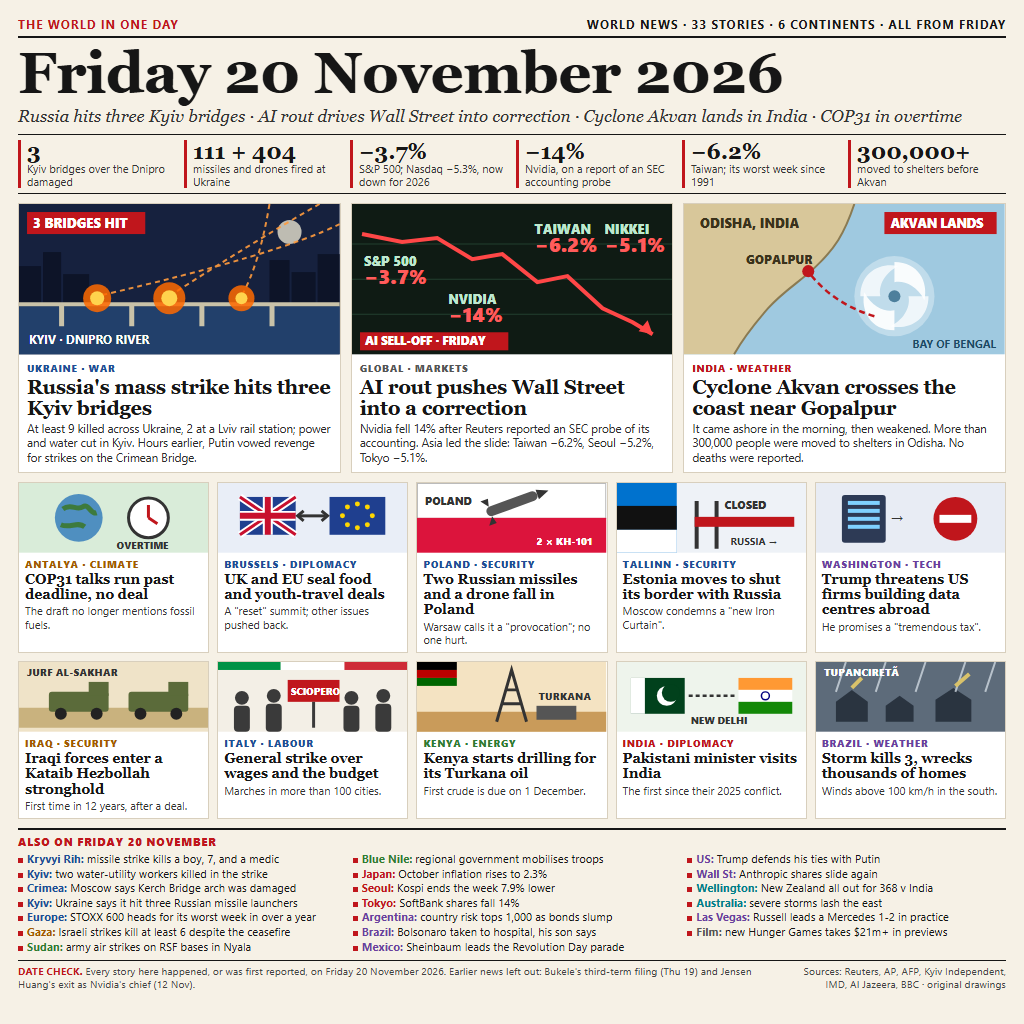
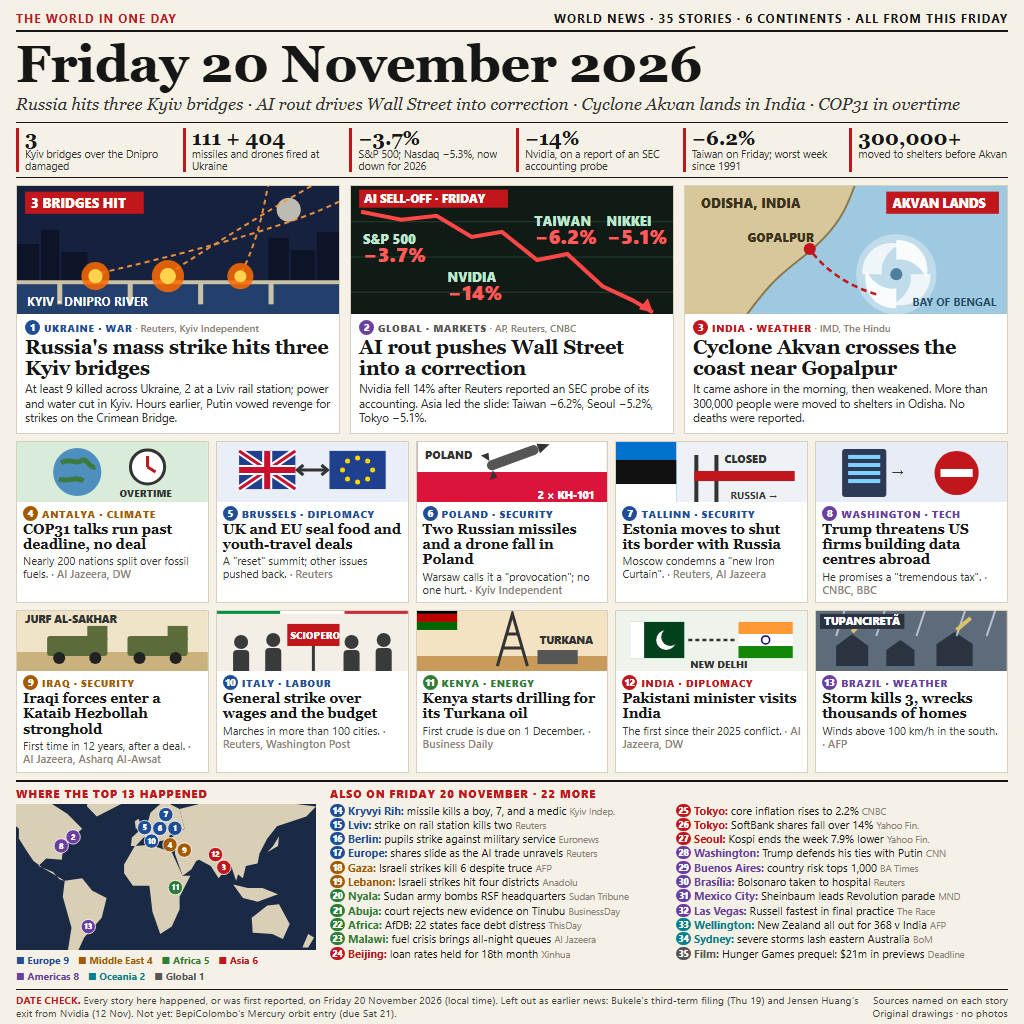
v2: 35 stories, locator map of the top 13, sources on every story, fixed clipped labels

diff --git a/src/page.html b/src/page.html
@@ -3,16 +3,16 @@
 <style>
 *{box-sizing:border-box;margin:0;padding:0}
 html,body{width:1024px;height:1024px;overflow:hidden}
-body{background:#f6f1e6;color:#161616;font-family:"Segoe UI",Arial,sans-serif;padding:16px 18px 10px}
+body{background:#f6f1e6;color:#161616;font-family:"Segoe UI",Arial,sans-serif;padding:10px 16px 6px}
 .serif{font-family:Georgia,"Times New Roman",serif}
 .top{display:flex;justify-content:space-between;align-items:center;font-size:12px;font-weight:700;letter-spacing:.08em;text-transform:uppercase;border-bottom:2px solid #161616;padding-bottom:4px}
 .top .red{color:#c0161c}
-h1{font-family:Georgia,serif;font-size:58px;line-height:1;font-weight:900;letter-spacing:-.01em;margin-top:6px}
+h1{font-family:Georgia,serif;font-size:52px;line-height:1;font-weight:900;letter-spacing:-.01em;margin-top:6px}
 .dek{font-family:Georgia,serif;font-style:italic;font-size:17px;margin-top:4px;color:#333}
 .nums{display:grid;grid-template-columns:repeat(6,1fr);gap:8px;margin-top:8px;border-top:1px solid #161616;border-bottom:1px solid #161616;padding:5px 0}
-.nums div{border-left:3px solid #c0161c;padding-left:6px;font-size:11px;line-height:1.15;color:#333}
-.nums b{display:block;font-family:Georgia,serif;font-size:22px;color:#161616;line-height:1.05}
-.lead{display:grid;grid-template-columns:1fr 1fr 1fr;gap:10px;margin-top:9px}
+.nums div{border-left:3px solid #c0161c;padding-left:6px;font-size:10.6px;line-height:1.1;color:#333}
+.nums b{display:block;font-family:Georgia,serif;font-size:20px;color:#161616;line-height:1.05}
+.lead{display:grid;grid-template-columns:1fr 1fr 1fr;gap:10px;margin-top:7px}
 .card{background:#fff;border:1px solid #d8cfbd;display:flex;flex-direction:column}
 .card svg rect.fl{stroke:#999;stroke-width:1}
 .card svg{display:block;width:100%}
@@ -20,23 +20,28 @@ h1{font-family:Georgia,serif;font-size:58px;line-height:1;font-weight:900;letter
 .kick{font-size:10px;font-weight:800;letter-spacing:.07em;text-transform:uppercase}
 .lead h2{font-family:Georgia,serif;font-size:19.5px;line-height:1.08;margin-top:2px}
 .lead p{font-size:11.5px;line-height:1.25;margin-top:3px;color:#2c2c2c}
-.grid{display:grid;grid-template-columns:repeat(5,1fr);gap:8px;margin-top:9px}
+.grid{display:grid;grid-template-columns:repeat(5,1fr);gap:7px;margin-top:7px}
 .grid .txt{padding:4px 6px 6px}
 .grid h3{font-family:Georgia,serif;font-size:14px;line-height:1.1;margin-top:1px}
 .grid p{font-size:11px;line-height:1.2;color:#333;margin-top:2px}
-.also{margin-top:9px;border-top:2px solid #161616;padding-top:4px}
-.also .hd{font-size:11px;font-weight:800;letter-spacing:.08em;text-transform:uppercase;color:#c0161c}
-.also ul{list-style:none;columns:3;column-gap:16px;margin-top:3px}
-.also li{font-size:11.2px;line-height:1.3;break-inside:avoid;padding-left:9px;position:relative}
-.also li:before{content:"";position:absolute;left:0;top:6px;width:5px;height:5px;background:#c0161c}
-.also li b{font-weight:700}
 .foot{display:flex;justify-content:space-between;gap:12px;margin-top:6px;border-top:1px solid #161616;padding-top:4px;font-size:10.4px;color:#444;line-height:1.25}
 .foot .chk{flex:1}
 .foot .chk b{color:#c0161c}
 .eu{color:#1f4e96}.as{color:#c0161c}.am{color:#6b3fa0}.af{color:#2f7d32}.me{color:#a35a00}.gl{color:#555}.oc{color:#00808a}
+.bot{display:grid;grid-template-columns:300px 1fr;gap:14px;margin-top:7px;border-top:2px solid #161616;padding-top:4px}
+.hd{font-size:11px;font-weight:800;letter-spacing:.08em;text-transform:uppercase;color:#c0161c;margin-bottom:3px}
+#map{width:300px;display:block}
+.leg{display:flex;flex-wrap:wrap;gap:2px 9px;font-size:10px;font-weight:700;margin-top:3px}
+.also ol{list-style:none;columns:2;column-gap:14px}
+.also li{font-size:11px;line-height:1.3;break-inside:avoid;white-space:nowrap;overflow:hidden;text-overflow:ellipsis}
+.also li i{display:inline-block;width:15px;height:13px;border-radius:7px;color:#fff;font-style:normal;font-size:8.5px;font-weight:800;text-align:center;line-height:13px;margin-right:3px;vertical-align:1px}
+.also li .s{color:#8a8172;font-size:9.5px}
+.num{display:inline-block;min-width:15px;height:15px;border-radius:8px;color:#fff;font-size:9.5px;font-weight:800;text-align:center;line-height:15px;margin-right:4px;vertical-align:1px;font-style:normal;letter-spacing:0}
+.srcl{color:#8a8172;font-weight:600;letter-spacing:0;text-transform:none}
+.foot .src{text-align:right;white-space:nowrap}
 </style></head>
 <body>
-<div class="top"><span class="red">The world in one day</span><span>World news · 33 stories · 6 continents · all from Friday</span></div>
+<div class="top"><span class="red">The world in one day</span><span>World news · 39 stories · 6 continents · all from this Friday</span></div>
 <h1>Friday 20 November 2026</h1>
 <div class="dek">Russia hits three Kyiv bridges · AI rout drives Wall Street into correction · Cyclone Akvan lands in India · COP31 in overtime</div>
 
@@ -45,14 +50,14 @@ h1{font-family:Georgia,serif;font-size:58px;line-height:1;font-weight:900;letter
   <div><b>111 + 404</b>missiles and drones fired at Ukraine</div>
   <div><b>−3.7%</b>S&amp;P 500; Nasdaq −5.3%, now down for 2026</div>
   <div><b>−14%</b>Nvidia, on a report of an SEC accounting probe</div>
-  <div><b>−6.2%</b>Taiwan; its worst week since 1991</div>
+  <div><b>−6.2%</b>Taiwan on Friday; worst week since 1991</div>
   <div><b>300,000+</b>moved to shelters before Akvan</div>
 </div>
 
 <div class="lead">
   <!-- 1 KYIV -->
   <div class="card">
-    <svg viewBox="0 0 320 150" xmlns="http://www.w3.org/2000/svg">
+    <svg viewBox="0 0 320 136" preserveAspectRatio="xMidYMid slice" style="height:128px" xmlns="http://www.w3.org/2000/svg">
       <rect width="320" height="150" fill="#16213e"/>
       <circle cx="270" cy="28" r="12" fill="#e8e4d0" opacity=".8"/>
       <g fill="#0d1428"><rect x="0" y="62" width="22" height="40"/><rect x="24" y="48" width="18" height="54"/><rect x="44" y="70" width="26" height="32"/><rect x="250" y="56" width="20" height="46"/><rect x="272" y="68" width="24" height="34"/><rect x="298" y="50" width="22" height="52"/></g>
@@ -61,14 +66,14 @@ h1{font-family:Georgia,serif;font-size:58px;line-height:1;font-weight:900;letter
       <g fill="#c9c2a8"><rect x="40" y="100" width="5" height="22"/><rect x="110" y="100" width="5" height="22"/><rect x="180" y="100" width="5" height="22"/><rect x="250" y="100" width="5" height="22"/></g>
       <g stroke="#ff9b3d" stroke-width="2" stroke-dasharray="5 4" fill="none" opacity=".9"><path d="M300 0 Q230 40 150 92"/><path d="M320 20 Q260 50 78 92"/><path d="M250 0 Q240 60 222 92"/></g>
       <g><circle cx="78" cy="94" r="14" fill="#ff6a00" opacity=".85"/><circle cx="78" cy="94" r="7" fill="#ffd34d"/><circle cx="150" cy="94" r="16" fill="#ff6a00" opacity=".85"/><circle cx="150" cy="94" r="8" fill="#ffd34d"/><circle cx="222" cy="94" r="13" fill="#ff6a00" opacity=".85"/><circle cx="222" cy="94" r="6" fill="#ffd34d"/></g>
-      <rect x="8" y="8" width="118" height="22" fill="#c0161c"/><text x="14" y="24" font-family="Segoe UI,Arial" font-weight="800" font-size="13" fill="#fff">3 BRIDGES HIT</text>
-      <text x="10" y="140" font-family="Segoe UI,Arial" font-weight="700" font-size="12" fill="#fff">KYIV · DNIPRO RIVER</text>
+      <rect x="8" y="10" width="118" height="22" fill="#c0161c"/><text x="14" y="26" font-family="Segoe UI,Arial" font-weight="800" font-size="13" fill="#fff">3 BRIDGES HIT</text>
+      <text x="10" y="124" font-family="Segoe UI,Arial" font-weight="700" font-size="12" fill="#fff">KYIV · DNIPRO RIVER</text>
     </svg>
     <div class="txt"><div class="kick eu">Ukraine · War</div><h2>Russia's mass strike hits three Kyiv bridges</h2><p>At least 9 killed across Ukraine, 2 at a Lviv rail station; power and water cut in Kyiv. Hours earlier, Putin vowed revenge for strikes on the Crimean Bridge.</p></div>
   </div>
   <!-- 2 MARKETS -->
   <div class="card">
-    <svg viewBox="0 0 320 150" xmlns="http://www.w3.org/2000/svg">
+    <svg viewBox="0 0 320 136" preserveAspectRatio="xMidYMid slice" style="height:128px" xmlns="http://www.w3.org/2000/svg">
       <rect width="320" height="150" fill="#0f1b14"/>
       <g stroke="#23402f" stroke-width="1"><path d="M0 40H320M0 75H320M0 110H320"/></g>
       <polyline points="10,30 50,38 85,34 120,55 150,50 185,78 215,72 250,104 280,118 300,130" fill="none" stroke="#ff4747" stroke-width="4"/>
@@ -76,16 +81,16 @@ h1{font-family:Georgia,serif;font-size:58px;line-height:1;font-weight:900;letter
       <g font-family="Segoe UI,Arial" font-weight="800">
         <text x="12" y="62" font-size="13" fill="#bfe8cf">S&amp;P 500</text><text x="12" y="80" font-size="20" fill="#ff5c5c">−3.7%</text>
         <text x="96" y="100" font-size="13" fill="#bfe8cf">NVIDIA</text><text x="96" y="118" font-size="20" fill="#ff5c5c">−14%</text>
-        <text x="182" y="30" font-size="13" fill="#bfe8cf">TAIWAN</text><text x="182" y="48" font-size="20" fill="#ff5c5c">−6.2%</text>
-        <text x="252" y="30" font-size="13" fill="#bfe8cf">NIKKEI</text><text x="252" y="48" font-size="20" fill="#ff5c5c">−5.1%</text>
+        <text x="182" y="44" font-size="13" fill="#bfe8cf">TAIWAN</text><text x="182" y="62" font-size="20" fill="#ff5c5c">−6.2%</text>
+        <text x="254" y="44" font-size="13" fill="#bfe8cf">NIKKEI</text><text x="254" y="62" font-size="20" fill="#ff5c5c">−5.1%</text>
       </g>
-      <rect x="8" y="128" width="148" height="18" fill="#c0161c"/><text x="13" y="141" font-family="Segoe UI,Arial" font-weight="800" font-size="11.5" fill="#fff">AI SELL-OFF · FRIDAY</text>
+      <rect x="8" y="8" width="148" height="18" fill="#c0161c"/><text x="13" y="21" font-family="Segoe UI,Arial" font-weight="800" font-size="11.5" fill="#fff">AI SELL-OFF · FRIDAY</text>
     </svg>
     <div class="txt"><div class="kick gl">Global · Markets</div><h2>AI rout pushes Wall Street into a correction</h2><p>Nvidia fell 14% after Reuters reported an SEC probe of its accounting. Asia led the slide: Taiwan −6.2%, Seoul −5.2%, Tokyo −5.1%.</p></div>
   </div>
   <!-- 3 CYCLONE -->
   <div class="card">
-    <svg viewBox="0 0 320 150" xmlns="http://www.w3.org/2000/svg">
+    <svg viewBox="0 0 320 136" preserveAspectRatio="xMidYMid slice" style="height:128px" xmlns="http://www.w3.org/2000/svg">
       <rect width="320" height="150" fill="#9fc9e0"/>
       <path d="M0 0 H170 C160 30 150 45 132 62 C118 76 100 86 84 104 C70 120 58 136 50 150 H0 Z" fill="#d8c79a"/>
       <path d="M170 0 C160 30 150 45 132 62 C118 76 100 86 84 104 C70 120 58 136 50 150" fill="none" stroke="#8a7a52" stroke-width="2"/>
@@ -100,66 +105,110 @@ h1{font-family:Georgia,serif;font-size:58px;line-height:1;font-weight:900;letter
       <path d="M190 112 Q150 100 126 70" fill="none" stroke="#c0161c" stroke-width="2.5" stroke-dasharray="6 4"/>
       <circle cx="124" cy="67" r="6" fill="#c0161c"/>
       <text x="62" y="60" font-family="Segoe UI,Arial" font-weight="800" font-size="12" fill="#3b321c">GOPALPUR</text>
-      <text x="16" y="24" font-family="Segoe UI,Arial" font-weight="800" font-size="13" fill="#3b321c">ODISHA, INDIA</text>
-      <text x="228" y="144" font-family="Segoe UI,Arial" font-weight="700" font-size="11" fill="#1d4a66">BAY OF BENGAL</text>
-      <rect x="200" y="8" width="112" height="22" fill="#c0161c"/><text x="206" y="24" font-family="Segoe UI,Arial" font-weight="800" font-size="12.5" fill="#fff">AKVAN LANDS</text>
+      <text x="16" y="26" font-family="Segoe UI,Arial" font-weight="800" font-size="13" fill="#3b321c">ODISHA, INDIA</text>
+      <text x="226" y="124" font-family="Segoe UI,Arial" font-weight="700" font-size="11" fill="#1d4a66">BAY OF BENGAL</text>
+      <rect x="200" y="10" width="112" height="22" fill="#c0161c"/><text x="206" y="26" font-family="Segoe UI,Arial" font-weight="800" font-size="12.5" fill="#fff">AKVAN LANDS</text>
     </svg>
     <div class="txt"><div class="kick as">India · Weather</div><h2>Cyclone Akvan crosses the coast near Gopalpur</h2><p>It came ashore in the morning, then weakened. More than 300,000 people were moved to shelters in Odisha. No deaths were reported.</p></div>
   </div>
 </div>
 
 <div class="grid">
-  <div class="card"><svg viewBox="0 0 190 70"><rect width="190" height="70" fill="#d9ecd9"/><circle cx="60" cy="35" r="24" fill="#4f8fc0"/><path d="M44 26c8-6 14 2 20-2s8 8 14 6M42 42c10 4 16-4 24 2" stroke="#3d7a3d" stroke-width="5" fill="none"/><circle cx="130" cy="35" r="20" fill="#fff" stroke="#333" stroke-width="3"/><path d="M130 35V22M130 35l9 6" stroke="#c0161c" stroke-width="3"/><text x="98" y="66" font-family="Segoe UI" font-weight="800" font-size="10" fill="#333">OVERTIME</text></svg>
-    <div class="txt"><div class="kick me">Antalya · Climate</div><h3>COP31 talks run past deadline, no deal</h3><p>The draft no longer mentions fossil fuels.</p></div></div>
-  <div class="card"><svg viewBox="0 0 190 70"><rect width="190" height="70" fill="#e9eef7"/><g transform="translate(22,14)"><rect width="56" height="38" fill="#1f3f8f"/><path d="M0 0L56 38M56 0L0 38" stroke="#fff" stroke-width="7"/><path d="M0 0L56 38M56 0L0 38" stroke="#c8102e" stroke-width="3"/><path d="M28 0V38M0 19H56" stroke="#fff" stroke-width="10"/><path d="M28 0V38M0 19H56" stroke="#c8102e" stroke-width="6"/></g><g transform="translate(112,14)"><rect width="56" height="38" fill="#1f3f8f"/><g fill="#ffd700"><circle cx="28" cy="7" r="2.5"/><circle cx="38" cy="10" r="2.5"/><circle cx="43" cy="19" r="2.5"/><circle cx="38" cy="28" r="2.5"/><circle cx="28" cy="31" r="2.5"/><circle cx="18" cy="28" r="2.5"/><circle cx="13" cy="19" r="2.5"/><circle cx="18" cy="10" r="2.5"/></g></g><path d="M82 33h26" stroke="#333" stroke-width="3"/><path d="M104 28l6 5-6 5M86 28l-6 5 6 5" fill="none" stroke="#333" stroke-width="3"/></svg>
+  <div class="card"><svg viewBox="0 0 190 70" preserveAspectRatio="xMidYMid slice" style="height:60px"><rect width="190" height="70" fill="#d9ecd9"/><circle cx="60" cy="35" r="24" fill="#4f8fc0"/><path d="M44 26c8-6 14 2 20-2s8 8 14 6M42 42c10 4 16-4 24 2" stroke="#3d7a3d" stroke-width="5" fill="none"/><circle cx="130" cy="30" r="17" fill="#fff" stroke="#333" stroke-width="3"/><path d="M130 30V19M130 30l8 5" stroke="#c0161c" stroke-width="3"/><text x="102" y="60" font-family="Segoe UI" font-weight="800" font-size="10" fill="#333">OVERTIME</text></svg>
+    <div class="txt"><div class="kick me">Antalya · Climate</div><h3>COP31 talks run past deadline, no deal</h3><p>Nearly 200 nations split over fossil fuels.</p></div></div>
+  <div class="card"><svg viewBox="0 0 190 70" preserveAspectRatio="xMidYMid slice" style="height:60px"><rect width="190" height="70" fill="#e9eef7"/><g transform="translate(22,14)"><rect width="56" height="38" fill="#1f3f8f"/><path d="M0 0L56 38M56 0L0 38" stroke="#fff" stroke-width="7"/><path d="M0 0L56 38M56 0L0 38" stroke="#c8102e" stroke-width="3"/><path d="M28 0V38M0 19H56" stroke="#fff" stroke-width="10"/><path d="M28 0V38M0 19H56" stroke="#c8102e" stroke-width="6"/></g><g transform="translate(112,14)"><rect width="56" height="38" fill="#1f3f8f"/><g fill="#ffd700"><circle cx="28" cy="7" r="2.5"/><circle cx="38" cy="10" r="2.5"/><circle cx="43" cy="19" r="2.5"/><circle cx="38" cy="28" r="2.5"/><circle cx="28" cy="31" r="2.5"/><circle cx="18" cy="28" r="2.5"/><circle cx="13" cy="19" r="2.5"/><circle cx="18" cy="10" r="2.5"/></g></g><path d="M82 33h26" stroke="#333" stroke-width="3"/><path d="M104 28l6 5-6 5M86 28l-6 5 6 5" fill="none" stroke="#333" stroke-width="3"/></svg>
     <div class="txt"><div class="kick eu">Brussels · Diplomacy</div><h3>UK and EU seal food and youth-travel deals</h3><p>A "reset" summit; other issues pushed back.</p></div></div>
-  <div class="card"><svg viewBox="0 0 190 70"><rect width="190" height="70" fill="#fff"/><rect x="0.5" y="0.5" width="189" height="35" fill="#fff" stroke="#bbb"/><rect y="35" width="190" height="35" fill="#dc143c"/><g transform="translate(70,30) rotate(-20)"><rect x="0" y="-5" width="54" height="10" rx="5" fill="#555"/><path d="M54 -5l12 5-12 5z" fill="#333"/><path d="M4 -5l-6 -8h8zM4 5l-6 8h8z" fill="#333"/></g><text x="8" y="22" font-family="Segoe UI" font-weight="800" font-size="11" fill="#333">POLAND</text><text x="120" y="62" font-family="Segoe UI" font-weight="800" font-size="10.5" fill="#fff">2 × KH-101</text></svg>
+  <div class="card"><svg viewBox="0 0 190 70" preserveAspectRatio="xMidYMid slice" style="height:60px"><rect width="190" height="70" fill="#fff"/><rect x="0.5" y="0.5" width="189" height="35" fill="#fff" stroke="#bbb"/><rect y="35" width="190" height="35" fill="#dc143c"/><g transform="translate(70,30) rotate(-20)"><rect x="0" y="-5" width="54" height="10" rx="5" fill="#555"/><path d="M54 -5l12 5-12 5z" fill="#333"/><path d="M4 -5l-6 -8h8zM4 5l-6 8h8z" fill="#333"/></g><text x="8" y="22" font-family="Segoe UI" font-weight="800" font-size="11" fill="#333">POLAND</text><text x="120" y="62" font-family="Segoe UI" font-weight="800" font-size="10.5" fill="#fff">2 × KH-101</text></svg>
     <div class="txt"><div class="kick eu">Poland · Security</div><h3>Two Russian missiles and a drone fall in Poland</h3><p>Warsaw calls it a "provocation"; no one hurt.</p></div></div>
-  <div class="card"><svg viewBox="0 0 190 70"><rect width="190" height="70" fill="#eef2f7"/><rect x="0" y="0" width="60" height="70" fill="#0072ce"/><rect x="0" y="23" width="60" height="24" fill="#111"/><rect x="0" y="47" width="60" height="23" fill="#fff"/><g stroke="#333" stroke-width="4"><path d="M80 18V66M100 18V66"/></g><rect x="78" y="34" width="100" height="10" fill="#c0161c"/><rect x="78" y="34" width="100" height="10" fill="url(#s)"/><text x="108" y="26" font-family="Segoe UI" font-weight="800" font-size="11" fill="#333">CLOSED</text><text x="114" y="62" font-family="Segoe UI" font-weight="700" font-size="10" fill="#333">RUSSIA →</text></svg>
+  <div class="card"><svg viewBox="0 0 190 70" preserveAspectRatio="xMidYMid slice" style="height:60px"><rect width="190" height="70" fill="#eef2f7"/><rect x="0" y="0" width="60" height="70" fill="#0072ce"/><rect x="0" y="23" width="60" height="24" fill="#111"/><rect x="0" y="47" width="60" height="23" fill="#fff"/><g stroke="#333" stroke-width="4"><path d="M80 18V66M100 18V66"/></g><rect x="78" y="34" width="100" height="10" fill="#c0161c"/><rect x="78" y="34" width="100" height="10" fill="url(#s)"/><text x="108" y="26" font-family="Segoe UI" font-weight="800" font-size="11" fill="#333">CLOSED</text><text x="114" y="62" font-family="Segoe UI" font-weight="700" font-size="10" fill="#333">RUSSIA →</text></svg>
     <div class="txt"><div class="kick eu">Tallinn · Security</div><h3>Estonia moves to shut its border with Russia</h3><p>Moscow condemns a "new Iron Curtain".</p></div></div>
-  <div class="card"><svg viewBox="0 0 190 70"><rect width="190" height="70" fill="#e8ecf4"/><g transform="translate(26,12)"><rect width="44" height="48" rx="3" fill="#2d3a55"/><g fill="#7fd1ff"><rect x="6" y="6" width="32" height="4"/><rect x="6" y="14" width="32" height="4"/><rect x="6" y="22" width="32" height="4"/><rect x="6" y="30" width="32" height="4"/></g></g><g transform="translate(118,12)"><circle cx="22" cy="24" r="22" fill="#c0161c"/><rect x="6" y="20" width="32" height="8" fill="#fff"/></g><text x="74" y="40" font-family="Segoe UI" font-weight="800" font-size="16" fill="#333">→</text></svg>
+  <div class="card"><svg viewBox="0 0 190 70" preserveAspectRatio="xMidYMid slice" style="height:60px"><rect width="190" height="70" fill="#e8ecf4"/><g transform="translate(26,12)"><rect width="44" height="48" rx="3" fill="#2d3a55"/><g fill="#7fd1ff"><rect x="6" y="6" width="32" height="4"/><rect x="6" y="14" width="32" height="4"/><rect x="6" y="22" width="32" height="4"/><rect x="6" y="30" width="32" height="4"/></g></g><g transform="translate(118,12)"><circle cx="22" cy="24" r="22" fill="#c0161c"/><rect x="6" y="20" width="32" height="8" fill="#fff"/></g><text x="74" y="40" font-family="Segoe UI" font-weight="800" font-size="16" fill="#333">→</text></svg>
     <div class="txt"><div class="kick am">Washington · Tech</div><h3>Trump threatens US firms building data centres abroad</h3><p>He promises a "tremendous tax".</p></div></div>
 
-  <div class="card"><svg viewBox="0 0 190 70"><rect width="190" height="70" fill="#efe3c8"/><path d="M0 56H190" stroke="#c9b27e" stroke-width="20"/><g transform="translate(30,30)"><rect width="60" height="20" rx="3" fill="#5b6b3a"/><rect x="40" y="-10" width="20" height="14" fill="#5b6b3a"/><circle cx="12" cy="22" r="6" fill="#222"/><circle cx="48" cy="22" r="6" fill="#222"/></g><g transform="translate(110,30)"><rect width="60" height="20" rx="3" fill="#5b6b3a"/><rect x="40" y="-10" width="20" height="14" fill="#5b6b3a"/><circle cx="12" cy="22" r="6" fill="#222"/><circle cx="48" cy="22" r="6" fill="#222"/></g><text x="8" y="14" font-family="Segoe UI" font-weight="800" font-size="10.5" fill="#333">JURF AL-SAKHAR</text></svg>
+  <div class="card"><svg viewBox="0 0 190 70" preserveAspectRatio="xMidYMid slice" style="height:60px"><rect width="190" height="70" fill="#efe3c8"/><path d="M0 56H190" stroke="#c9b27e" stroke-width="20"/><g transform="translate(30,30)"><rect width="60" height="20" rx="3" fill="#5b6b3a"/><rect x="40" y="-10" width="20" height="14" fill="#5b6b3a"/><circle cx="12" cy="22" r="6" fill="#222"/><circle cx="48" cy="22" r="6" fill="#222"/></g><g transform="translate(110,30)"><rect width="60" height="20" rx="3" fill="#5b6b3a"/><rect x="40" y="-10" width="20" height="14" fill="#5b6b3a"/><circle cx="12" cy="22" r="6" fill="#222"/><circle cx="48" cy="22" r="6" fill="#222"/></g><text x="8" y="17" font-family="Segoe UI" font-weight="800" font-size="10.5" fill="#333">JURF AL-SAKHAR</text></svg>
     <div class="txt"><div class="kick me">Iraq · Security</div><h3>Iraqi forces enter a Kataib Hezbollah stronghold</h3><p>First time in 12 years, after a deal.</p></div></div>
-  <div class="card"><svg viewBox="0 0 190 70"><rect width="190" height="70" fill="#f3efe6"/><rect x="0" y="0" width="63" height="8" fill="#009246"/><rect x="63" y="0" width="64" height="8" fill="#fff"/><rect x="127" y="0" width="63" height="8" fill="#ce2b37"/><g fill="#3a3a3a"><circle cx="24" cy="36" r="7"/><rect x="16" y="44" width="16" height="26" rx="4"/><circle cx="56" cy="34" r="7"/><rect x="48" y="42" width="16" height="28" rx="4"/><circle cx="134" cy="36" r="7"/><rect x="126" y="44" width="16" height="26" rx="4"/><circle cx="166" cy="34" r="7"/><rect x="158" y="42" width="16" height="28" rx="4"/></g><rect x="70" y="18" width="52" height="22" fill="#c0161c"/><path d="M96 40V66" stroke="#3a3a3a" stroke-width="3"/><text x="73" y="33" font-family="Segoe UI" font-weight="800" font-size="10" fill="#fff">SCIOPERO</text></svg>
+  <div class="card"><svg viewBox="0 0 190 70" preserveAspectRatio="xMidYMid slice" style="height:60px"><rect width="190" height="70" fill="#f3efe6"/><rect x="0" y="0" width="63" height="8" fill="#009246"/><rect x="63" y="0" width="64" height="8" fill="#fff"/><rect x="127" y="0" width="63" height="8" fill="#ce2b37"/><g fill="#3a3a3a"><circle cx="24" cy="36" r="7"/><rect x="16" y="44" width="16" height="26" rx="4"/><circle cx="56" cy="34" r="7"/><rect x="48" y="42" width="16" height="28" rx="4"/><circle cx="134" cy="36" r="7"/><rect x="126" y="44" width="16" height="26" rx="4"/><circle cx="166" cy="34" r="7"/><rect x="158" y="42" width="16" height="28" rx="4"/></g><rect x="70" y="18" width="52" height="22" fill="#c0161c"/><path d="M96 40V66" stroke="#3a3a3a" stroke-width="3"/><text x="73" y="33" font-family="Segoe UI" font-weight="800" font-size="10" fill="#fff">SCIOPERO</text></svg>
     <div class="txt"><div class="kick eu">Italy · Labour</div><h3>General strike over wages and the budget</h3><p>Marches in more than 100 cities.</p></div></div>
-  <div class="card"><svg viewBox="0 0 190 70"><rect width="190" height="70" fill="#f4e3c2"/><path d="M0 60H190" stroke="#c99b5a" stroke-width="20"/><g stroke="#333" stroke-width="3" fill="none"><path d="M80 60L95 8L110 60M85 42H105M89 28H101"/></g><rect x="120" y="44" width="40" height="14" fill="#555"/><rect x="0" y="0" width="40" height="8" fill="#000"/><rect x="0" y="8" width="40" height="8" fill="#bb0000"/><rect x="0" y="16" width="40" height="8" fill="#006600"/><text x="122" y="38" font-family="Segoe UI" font-weight="800" font-size="10.5" fill="#333">TURKANA</text></svg>
+  <div class="card"><svg viewBox="0 0 190 70" preserveAspectRatio="xMidYMid slice" style="height:60px"><rect width="190" height="70" fill="#f4e3c2"/><path d="M0 60H190" stroke="#c99b5a" stroke-width="20"/><g stroke="#333" stroke-width="3" fill="none"><path d="M80 60L95 8L110 60M85 42H105M89 28H101"/></g><rect x="120" y="44" width="40" height="14" fill="#555"/><rect x="0" y="0" width="40" height="8" fill="#000"/><rect x="0" y="8" width="40" height="8" fill="#bb0000"/><rect x="0" y="16" width="40" height="8" fill="#006600"/><text x="122" y="38" font-family="Segoe UI" font-weight="800" font-size="10.5" fill="#333">TURKANA</text></svg>
     <div class="txt"><div class="kick af">Kenya · Energy</div><h3>Kenya starts drilling for its Turkana oil</h3><p>First crude is due on 1 December.</p></div></div>
-  <div class="card"><svg viewBox="0 0 190 70"><rect width="190" height="70" fill="#eef4ec"/><g transform="translate(14,16)"><rect width="54" height="36" fill="#01411c"/><rect width="14" height="36" fill="#fff"/><circle cx="36" cy="18" r="10" fill="#fff"/><circle cx="40" cy="15" r="9" fill="#01411c"/></g><g transform="translate(122,16)"><rect width="54" height="12" fill="#ff9933"/><rect y="12" width="54" height="12" fill="#fff"/><rect y="24" width="54" height="12" fill="#138808"/><circle cx="27" cy="18" r="4" fill="none" stroke="#000080" stroke-width="1.5"/></g><path d="M72 34H118" stroke="#333" stroke-width="2.5" stroke-dasharray="4 3"/><text x="74" y="62" font-family="Segoe UI" font-weight="800" font-size="10" fill="#333">NEW DELHI</text></svg>
+  <div class="card"><svg viewBox="0 0 190 70" preserveAspectRatio="xMidYMid slice" style="height:60px"><rect width="190" height="70" fill="#eef4ec"/><g transform="translate(14,16)"><rect width="54" height="36" fill="#01411c"/><rect width="14" height="36" fill="#fff"/><circle cx="36" cy="18" r="10" fill="#fff"/><circle cx="40" cy="15" r="9" fill="#01411c"/></g><g transform="translate(122,16)"><rect width="54" height="12" fill="#ff9933"/><rect y="12" width="54" height="12" fill="#fff"/><rect y="24" width="54" height="12" fill="#138808"/><circle cx="27" cy="18" r="4" fill="none" stroke="#000080" stroke-width="1.5"/></g><path d="M72 34H118" stroke="#333" stroke-width="2.5" stroke-dasharray="4 3"/><text x="74" y="62" font-family="Segoe UI" font-weight="800" font-size="10" fill="#333">NEW DELHI</text></svg>
     <div class="txt"><div class="kick as">India · Diplomacy</div><h3>Pakistani minister visits India</h3><p>The first since their 2025 conflict.</p></div></div>
-  <div class="card"><svg viewBox="0 0 190 70"><rect width="190" height="70" fill="#5d6b7a"/><g fill="#2a3440"><path d="M20 60V40l16-12 16 12v20z"/><path d="M70 60V44l14-10 14 10v16z"/><path d="M120 60V38l18-12 18 12v22z"/></g><g stroke="#cfd8e0" stroke-width="2" opacity=".8"><path d="M30 0l-10 30M70 0l-10 30M110 0l-10 30M150 0l-10 30M180 0l-10 30"/></g><path d="M36 26l10-10M140 24l14-12" stroke="#d9c26a" stroke-width="4"/><text x="8" y="14" font-family="Segoe UI" font-weight="800" font-size="10.5" fill="#fff">TUPANCIRETÃ</text></svg>
+  <div class="card"><svg viewBox="0 0 190 70" preserveAspectRatio="xMidYMid slice" style="height:60px"><rect width="190" height="70" fill="#5d6b7a"/><g fill="#2a3440"><path d="M20 60V40l16-12 16 12v20z"/><path d="M70 60V44l14-10 14 10v16z"/><path d="M120 60V38l18-12 18 12v22z"/></g><g stroke="#cfd8e0" stroke-width="2" opacity=".8"><path d="M30 0l-10 30M70 0l-10 30M110 0l-10 30M150 0l-10 30M180 0l-10 30"/></g><path d="M36 26l10-10M140 24l14-12" stroke="#d9c26a" stroke-width="4"/><rect x="4" y="8" width="84" height="15" fill="#2a3440"/><text x="8" y="19" font-family="Segoe UI" font-weight="800" font-size="10.5" fill="#fff">TUPANCIRETÃ</text></svg>
     <div class="txt"><div class="kick am">Brazil · Weather</div><h3>Storm kills 3, wrecks thousands of homes</h3><p>Winds above 100 km/h in the south.</p></div></div>
 </div>
 
-<div class="also">
-  <div class="hd">Also on Friday 20 November</div>
-  <ul>
-    <li><b class="eu">Kryvyi Rih:</b> missile strike kills a boy, 7, and a medic</li>
-    <li><b class="eu">Kyiv:</b> two water-utility workers killed in the strike</li>
-    <li><b class="eu">Crimea:</b> Moscow says Kerch Bridge arch was damaged</li>
-    <li><b class="eu">Kyiv:</b> Ukraine says it hit three Russian missile launchers</li>
-    <li><b class="eu">Europe:</b> STOXX 600 heads for its worst week in over a year</li>
-    <li><b class="me">Gaza:</b> Israeli strikes kill at least 6 despite the ceasefire</li>
-    <li><b class="af">Sudan:</b> army air strikes on RSF bases in Nyala</li>
-    <li><b class="af">Blue Nile:</b> regional government mobilises troops</li>
-    <li><b class="as">Japan:</b> October inflation rises to 2.3%</li>
-    <li><b class="as">Seoul:</b> Kospi ends the week 7.9% lower</li>
-    <li><b class="as">Tokyo:</b> SoftBank shares fall 14%</li>
-    <li><b class="am">Argentina:</b> country risk tops 1,000 as bonds slump</li>
-    <li><b class="am">Brazil:</b> Bolsonaro taken to hospital, his son says</li>
-    <li><b class="am">Mexico:</b> Sheinbaum leads the Revolution Day parade</li>
-    <li><b class="am">US:</b> Trump defends his ties with Putin</li>
-    <li><b class="am">Wall St:</b> Anthropic shares slide again</li>
-    <li><b class="oc">Wellington:</b> New Zealand all out for 368 v India</li>
-    <li><b class="oc">Australia:</b> severe storms lash the east</li>
-    <li><b class="am">Las Vegas:</b> Russell leads a Mercedes 1-2 in practice</li>
-    <li><b class="gl">Film:</b> new Hunger Games takes $21m+ in previews</li>
-  </ul>
+<div class="bot">
+  <div class="mapbox">
+    <div class="hd">Where the top 13 happened</div>
+    <svg id="map" viewBox="0 0 300 146" xmlns="http://www.w3.org/2000/svg"></svg>
+    <div class="leg" id="leg"></div>
+  </div>
+  <div class="also">
+    <div class="hd">Also on Friday 20 November · 26 more</div>
+    <ol id="briefs" start="14"></ol>
+  </div>
 </div>
 
 <div class="foot">
-  <div class="chk"><b>DATE CHECK.</b> Every story here happened, or was first reported, on Friday 20 November 2026. Earlier news left out: Bukele's third-term filing (Thu 19) and Jensen Huang's exit as Nvidia's chief (12 Nov).</div>
-  <div style="text-align:right;white-space:nowrap">Sources: Reuters, AP, AFP, Kyiv Independent,<br>IMD, Al Jazeera, BBC · original drawings</div>
+  <div class="chk"><b>DATE CHECK.</b> Every story here happened, or was first reported, on Friday 20 November 2026 (local time). Left out as earlier news: Bukele's third-term filing (Thu 19) and Jensen Huang's exit from Nvidia (12 Nov). Not yet: BepiColombo's Mercury orbit entry (due Sat 21).</div>
+  <div class="src">Sources named on each story<br>Original drawings · no photos</div>
 </div>
+<script>
+const R={eu:'#1f4e96',me:'#a35a00',af:'#2f7d32',as:'#c0161c',am:'#6b3fa0',oc:'#00808a'};
+const X0=-128,X1=180,Y0=70,Y1=-48,W=300,H=146;const P=(lo,la)=>[((lo-X0)/(X1-X0)*W).toFixed(1),((Y0-la)/(Y0-Y1)*H).toFixed(1)];
+const land=[
+[[-168,66],[-140,70],[-95,72],[-75,62],[-60,50],[-70,43],[-80,32],[-81,25],[-97,26],[-105,20],[-90,15],[-83,9],[-78,8],[-100,18],[-110,24],[-117,32],[-125,42],[-125,50],[-140,60],[-165,60]],
+[[-55,82],[-25,82],[-20,70],[-45,60],[-55,68]],
+[[-78,8],[-60,10],[-50,0],[-35,-6],[-40,-22],[-58,-38],[-68,-55],[-75,-50],[-71,-30],[-80,-5]],
+[[-10,36],[-9,43],[-2,48],[5,53],[8,57],[10,63],[20,70],[30,70],[40,66],[45,50],[30,45],[28,41],[20,40],[15,38],[10,44],[3,43],[-5,36]],
+[[-5,50],[1,51],[-2,58],[-6,56]],
+[[-17,21],[-6,36],[10,37],[32,31],[43,12],[51,12],[40,-5],[40,-15],[32,-29],[20,-35],[12,-17],[9,4],[-8,4],[-17,14]],
+[[28,41],[36,36],[35,30],[43,12],[52,17],[57,24],[60,25],[72,20],[80,10],[92,22],[98,8],[100,13],[105,10],[108,20],[120,22],[122,30],[130,42],[140,52],[170,60],[180,68],[140,72],[100,77],[60,70],[40,66],[45,50]],
+[[130,31],[141,36],[142,44],[136,36]],
+[[114,-22],[130,-12],[142,-11],[153,-27],[146,-39],[135,-35],[115,-34]],
+[[172,-35],[178,-38],[172,-46],[166,-46]],
+[[95,5],[105,-6],[120,-9],[141,-3],[125,2],[110,2]]];
+const pins=[
+[1,30.5,50.4,'eu'],[2,-74,40.7,'am'],[3,84.9,19.3,'as'],[4,30.7,36.9,'me'],[5,4.35,50.85,'eu'],[6,23.6,50.6,'eu'],[7,24.7,59.4,'eu'],[8,-77,38.9,'am'],[9,44.2,32.9,'me'],[10,12.5,41.9,'eu'],[11,35.6,2.4,'af'],[12,77.2,28.6,'as'],[13,-53.8,-29.1,'am']];
+const briefs=[
+['eu','Kryvyi Rih','missile kills a boy, 7, and a medic','Kyiv Indep.',33.4,47.9],
+['eu','Lviv','strike on rail station kills two','Reuters',24.0,49.8],
+['eu','Berlin','pupils strike against military service','Euronews',13.4,52.5],
+['eu','Europe','shares slide as the AI trade unravels','Reuters',2.3,48.9],
+['me','Gaza','Israeli strikes kill 6 despite truce','AFP',34.4,31.5],
+['me','Lebanon','Israeli strikes hit four districts','Anadolu',35.9,33.9],
+['af','Nyala','Sudan army bombs RSF headquarters','Sudan Tribune',24.9,12.0],
+['af','Abuja','court rejects new evidence on Tinubu','BusinessDay',7.5,9.1],
+['af','Africa','AfDB: 22 states face debt distress','ThisDay',-2.0,6.0],
+['af','Malawi','fuel crisis brings all-night queues','Al Jazeera',35.0,-15.8],
+['as','Beijing','loan rates held for 18th month','Xinhua',116.4,39.9],
+['as','Tokyo','core inflation rises to 2.2%','CNBC',139.7,35.7],
+['as','Tokyo','SoftBank shares fall over 14%','Yahoo Fin.',143.5,40.5],
+['as','Seoul','Kospi ends the week 7.9% lower','Yahoo Fin.',127.0,37.6],
+['am','Washington','Trump defends his ties with Putin','CNN',-82,34],
+['am','Buenos Aires','country risk tops 1,000','BA Times',-58.4,-34.6],
+['am','Brasília','Bolsonaro taken to hospital','Reuters',-47.9,-15.8],
+['am','Mexico City','Sheinbaum leads Revolution parade','MND',-99.1,19.4],
+['am','Las Vegas','Russell fastest in final practice','The Race',-115.1,36.2],
+['oc','Wellington','New Zealand all out for 368 v India','AFP',174.8,-41.3],
+['oc','Sydney','severe storms lash eastern Australia','BoM',151.2,-33.9],
+['gl','Film','Hunger Games prequel: $21m in previews','Deadline',null,null]];
+const m=document.getElementById('map');let h='<rect width="300" height="146" fill="#1b2a44"/>';
+for(const g of land)h+='<polygon points="'+g.map(p=>P(p[0],p[1]).join(',')).join(' ')+'" fill="#d9cfb6"/>';
+const all=pins;
+const pts=all.map(p=>{const [x,y]=P(p[1],p[2]);return {n:p[0],c:p[3],x0:+x,y0:+y,x:+x,y:+y,r:7.2};});
+for(let it=0;it<400;it++){for(let i=0;i<pts.length;i++)for(let j=i+1;j<pts.length;j++){const A=pts[i],B=pts[j];let dx=B.x-A.x,dy=B.y-A.y;let d=Math.hypot(dx,dy)||0.01;const m=A.r+B.r+0.8;if(d<m){const f=(m-d)/2;dx/=d;dy/=d;A.x-=dx*f;A.y-=dy*f;B.x+=dx*f;B.y+=dy*f;}}
+for(const p of pts){p.x+=(p.x0-p.x)*0.02;p.y+=(p.y0-p.y)*0.02;p.x=Math.max(p.r,Math.min(300-p.r,p.x));p.y=Math.max(p.r,Math.min(146-p.r,p.y));}}
+for(const p of pts)if(Math.hypot(p.x-p.x0,p.y-p.y0)>2)h+='<line x1="'+p.x0+'" y1="'+p.y0+'" x2="'+p.x.toFixed(1)+'" y2="'+p.y.toFixed(1)+'" stroke="#fff" stroke-width=".6" opacity=".8"/><circle cx="'+p.x0+'" cy="'+p.y0+'" r="1.2" fill="#fff"/>';
+for(const p of pts.slice().reverse()){h+='<circle cx="'+p.x.toFixed(1)+'" cy="'+p.y.toFixed(1)+'" r="'+p.r+'" fill="'+(R[p.c]||'#555')+'" stroke="#fff" stroke-width="0.8"/><text x="'+p.x.toFixed(1)+'" y="'+(p.y+2.7).toFixed(1)+'" font-size="'+8+'" font-family="Segoe UI,Arial" font-weight="800" fill="#fff" text-anchor="middle">'+p.n+'</text>';}
+m.innerHTML=h;
+const cnt={};for(const r of pins.map(p=>p[3]).concat(briefs.map(b=>b[0])))cnt[r]=(cnt[r]||0)+1;
+const nm={eu:'Europe',me:'Middle East',af:'Africa',as:'Asia',am:'Americas',oc:'Oceania',gl:'Global'};
+document.getElementById('leg').innerHTML=Object.keys(nm).filter(k=>cnt[k]).map(k=>'<span class="'+k+'">■ '+nm[k]+' '+cnt[k]+'</span>').join('');
+document.querySelector('.also .hd').textContent='Also on Friday 20 November · '+briefs.length+' more';
+document.querySelector('.top span:last-child').textContent='World news · '+(13+briefs.length)+' stories · 6 continents · all from this Friday';
+const cs=['Reuters, Kyiv Independent','AP, Reuters, CNBC','IMD, The Hindu','Al Jazeera, DW','Reuters','Kyiv Independent','Reuters, Al Jazeera','CNBC, BBC','Al Jazeera, Asharq Al-Awsat','Reuters, Washington Post','Business Daily','Al Jazeera, DW','AFP'];
+document.querySelectorAll('.card').forEach((c,i)=>{const p=pins[i];const k=c.querySelector('.kick');const b=document.createElement('i');b.className='num';b.style.background=R[p[3]];b.textContent=p[0];k.prepend(b);if(i<3){const s=document.createElement('span');s.className='srcl';s.textContent=' · '+cs[i];k.appendChild(s);}else{const s=document.createElement('span');s.className='srcl';s.textContent=' · '+cs[i];c.querySelector('p').appendChild(s);}});
+document.getElementById('briefs').innerHTML=briefs.map((b,i)=>'<li><i style="background:'+(R[b[0]]||'#555')+'">'+(14+i)+'</i><b class="'+b[0]+'">'+b[1]+':</b> '+b[2]+' <span class="s">'+b[3]+'</span></li>').join('');
+</script>
 </body></html>

diff --git a/README.md b/README.md
@@ -4,7 +4,7 @@
 [![rank](https://make.fun/badge/news-image-20261120/hmmdz09/news-20-november-2026/rank.svg)](https://make.fun/bounty/news-image-20261120/leaderboard?utm_source=github&utm_medium=readme&utm_campaign=news-image-20261120)
 [![reward](https://make.fun/badge/news-image-20261120/hmmdz09/news-20-november-2026/reward.svg)](https://make.fun/bounty/news-image-20261120?utm_source=github&utm_medium=readme&utm_campaign=news-image-20261120)
 
-An original front page summing up the world's news of Friday 20 November 2026: 33 stories from six continents, three illustrated leads, ten drawn cards and a date check. `src/page.html` (HTML with inline SVG drawings) is rendered to the 1024×1024 `entry.png`, and `main.ts` copies it to `/output/entry.png`.
+An original front page summing up the world's news of Friday 20 November 2026: 35 stories from six continents: three illustrated leads, ten drawn cards, a locator map, 22 briefs and a date check. `src/page.html` (HTML with inline SVG drawings) is rendered to the 1024×1024 `entry.png`, and `main.ts` copies it to `/output/entry.png`.
 
 ## Run it
 
